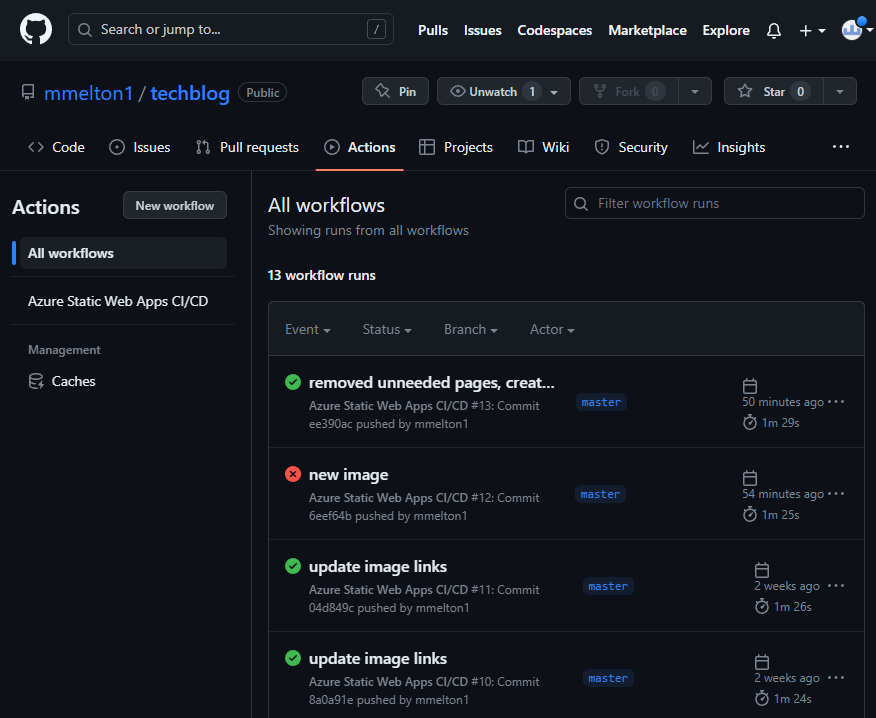
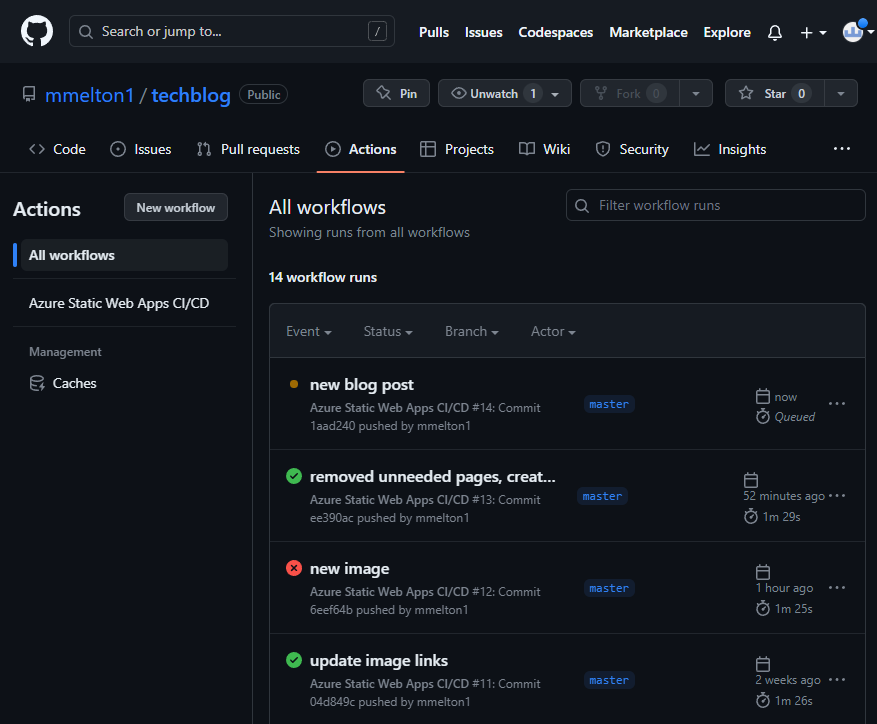
new blog post

diff --git a/content/blog/astro-blog.md b/content/blog/astro-blog.md
@@ -35,5 +35,7 @@ At this point, my blog was working well locally, but I needed to host it somewhe
 ![](/assets/astro4.png)
 &nbsp;
 
-With the static web app configured, any commits I made in VS code to github would be picked up by azure in order to build my Astro blog. Also, 
+With the static web app configured, any commits I made in VS code to github would be picked up by azure in order to build my Astro blog. Also, I was able to view any build errors in the github actions section to verify whether a commit was successful, or to resolve any errors.
 
+![](/assets/astro4.png)
+&nbsp;

diff --git a/content/blog/wordpress-blog.md b/content/blog/wordpress-blog.md
@@ -1,5 +1,5 @@
 ---
-title: "Personal Blog – A WordPress blog hosted on Azure"
+title: "Personal Blog v1 – A WordPress blog hosted on Azure"
 draft: false
 date: 2022-12-14
 tags:
